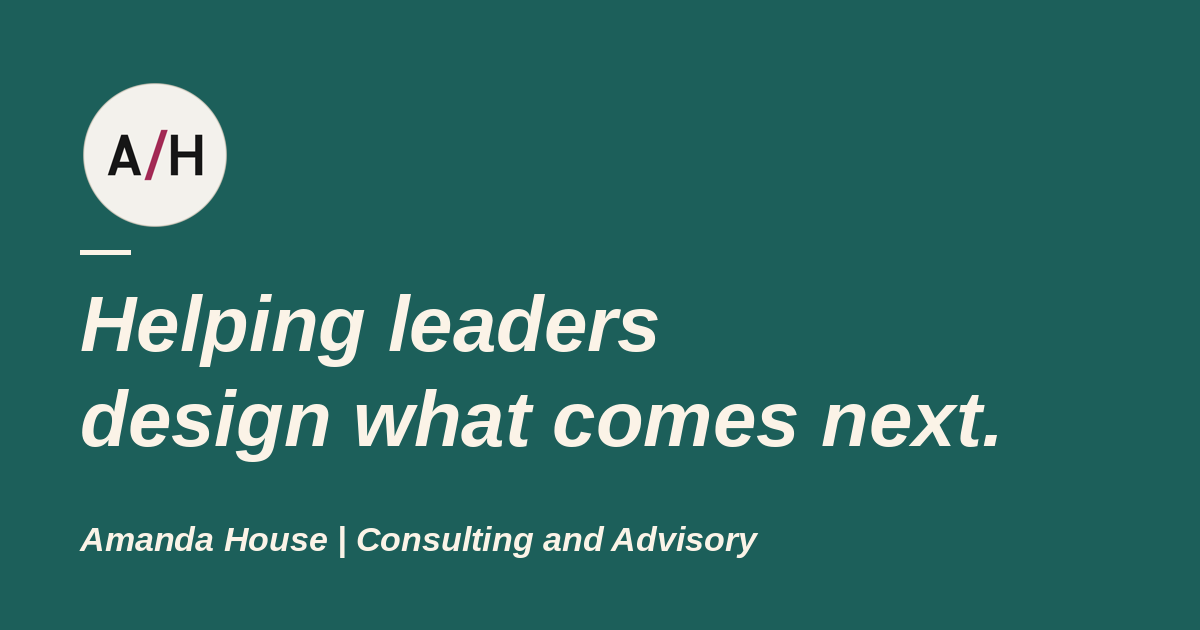
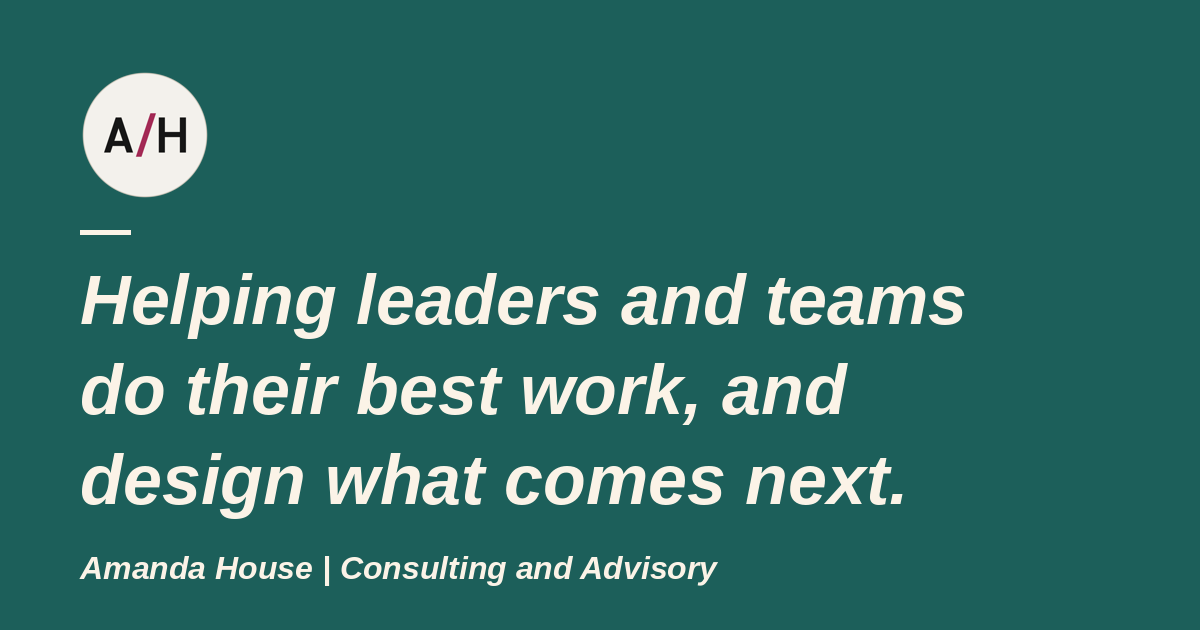
Update hero headline and share image
Claude-Session: https://claude.ai/code/session_01WGtPTXjqGLkBgWek9JNFY7

Changed region(s): [[0.0617, 0.1206, 0.8325, 0.9349]]

diff --git a/site/index.html b/site/index.html
@@ -44,7 +44,7 @@
 <main>
   <section class="hero wrap">
     <span class="rule"></span>
-    <h1>Helping leaders <span class="teal">design what comes next.</span></h1>
+    <h1>Helping leaders and teams do their best work, and <span class="teal">design what comes next.</span></h1>
     <p class="lede">I help organizations and teams of different sizes explore new ideas with AI, scale AI across their teams, and lead the work that's new, stalled, or changing.</p>
     <div class="cta-row">
       <a class="btn btn-primary" href="#contact">Get in touch</a>

diff --git a/src/index.html b/src/index.html
@@ -17,7 +17,7 @@
 <main>
   <section class="hero wrap">
     <span class="rule"></span>
-    <h1>Helping leaders <span class="teal">design what comes next.</span></h1>
+    <h1>Helping leaders and teams do their best work, and <span class="teal">design what comes next.</span></h1>
     <p class="lede">I help organizations and teams of different sizes explore new ideas with AI, scale AI across their teams, and lead the work that's new, stalled, or changing.</p>
     <div class="cta-row">
       <a class="btn btn-primary" href="#contact">Get in touch</a>

diff --git a/site/styles.css b/site/styles.css
@@ -40,7 +40,7 @@ p{margin:0}
 
 /* hero */
 .hero{padding-top:5rem;padding-bottom:5rem}
-.hero h1{max-width:46rem}
+.hero h1{max-width:52rem}
 .lede{margin-top:2rem;max-width:40rem;font-size:1.125rem;color:var(--muted)}
 .cta-row{display:flex;flex-wrap:wrap;gap:.75rem;margin-top:2rem}
 
